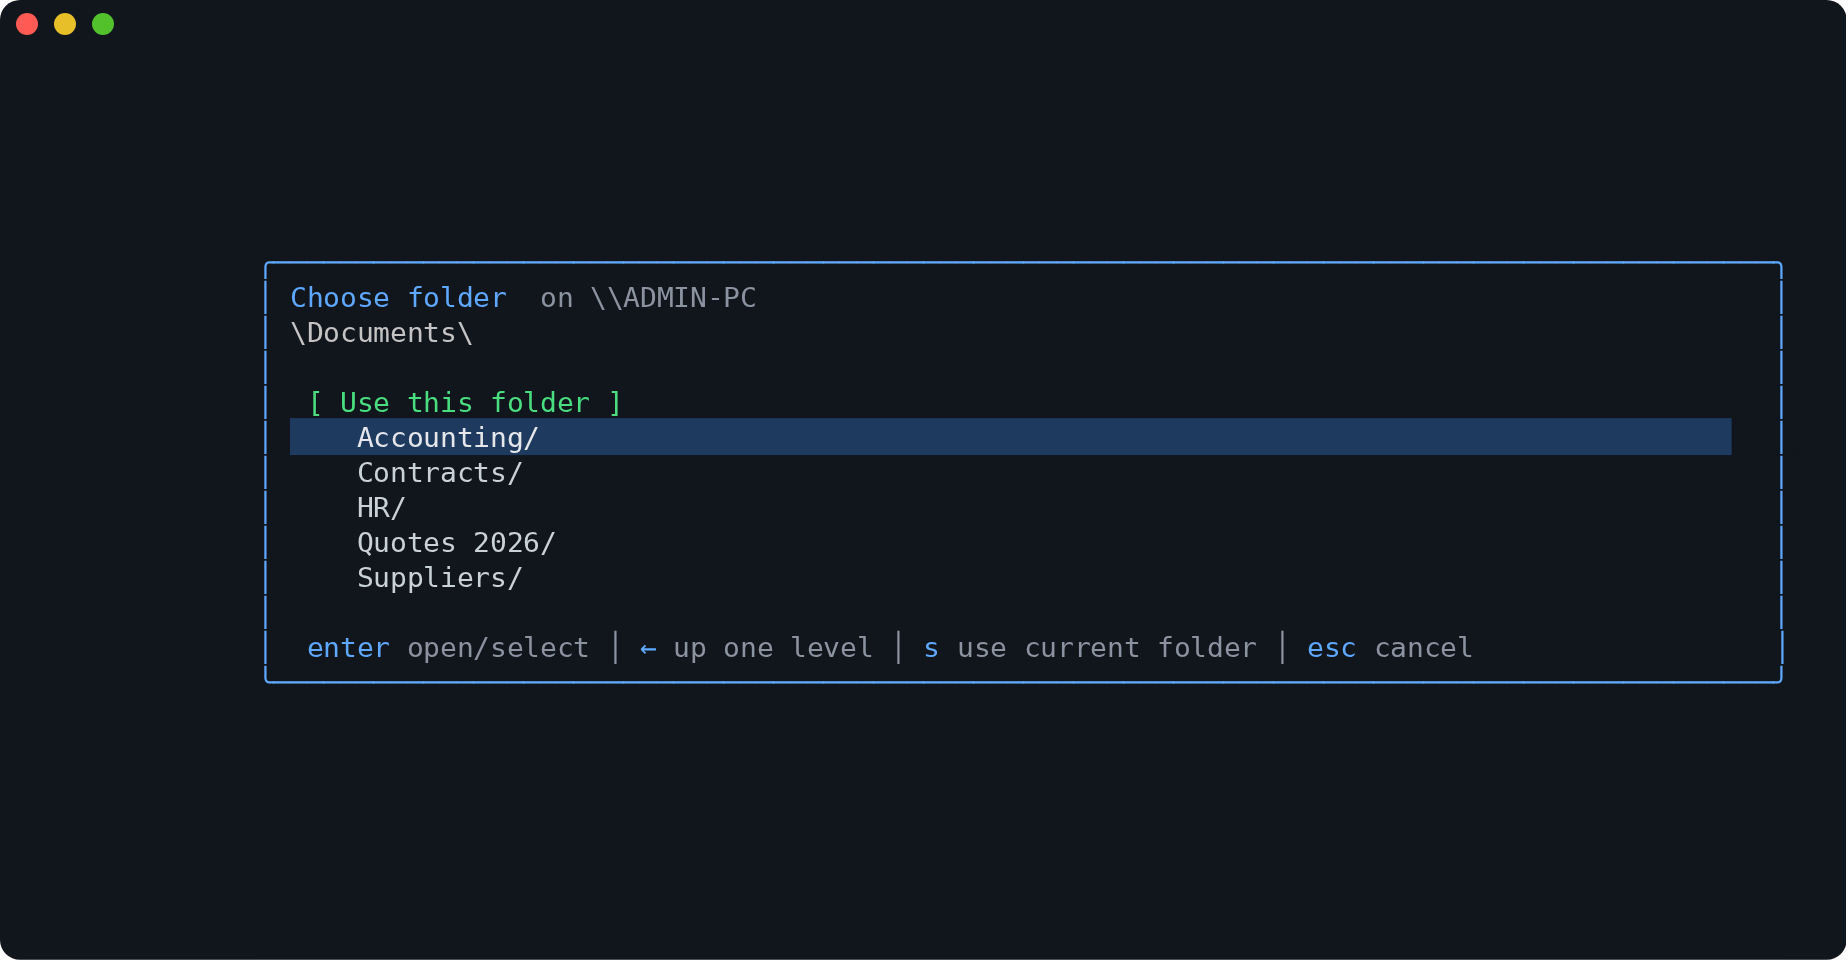
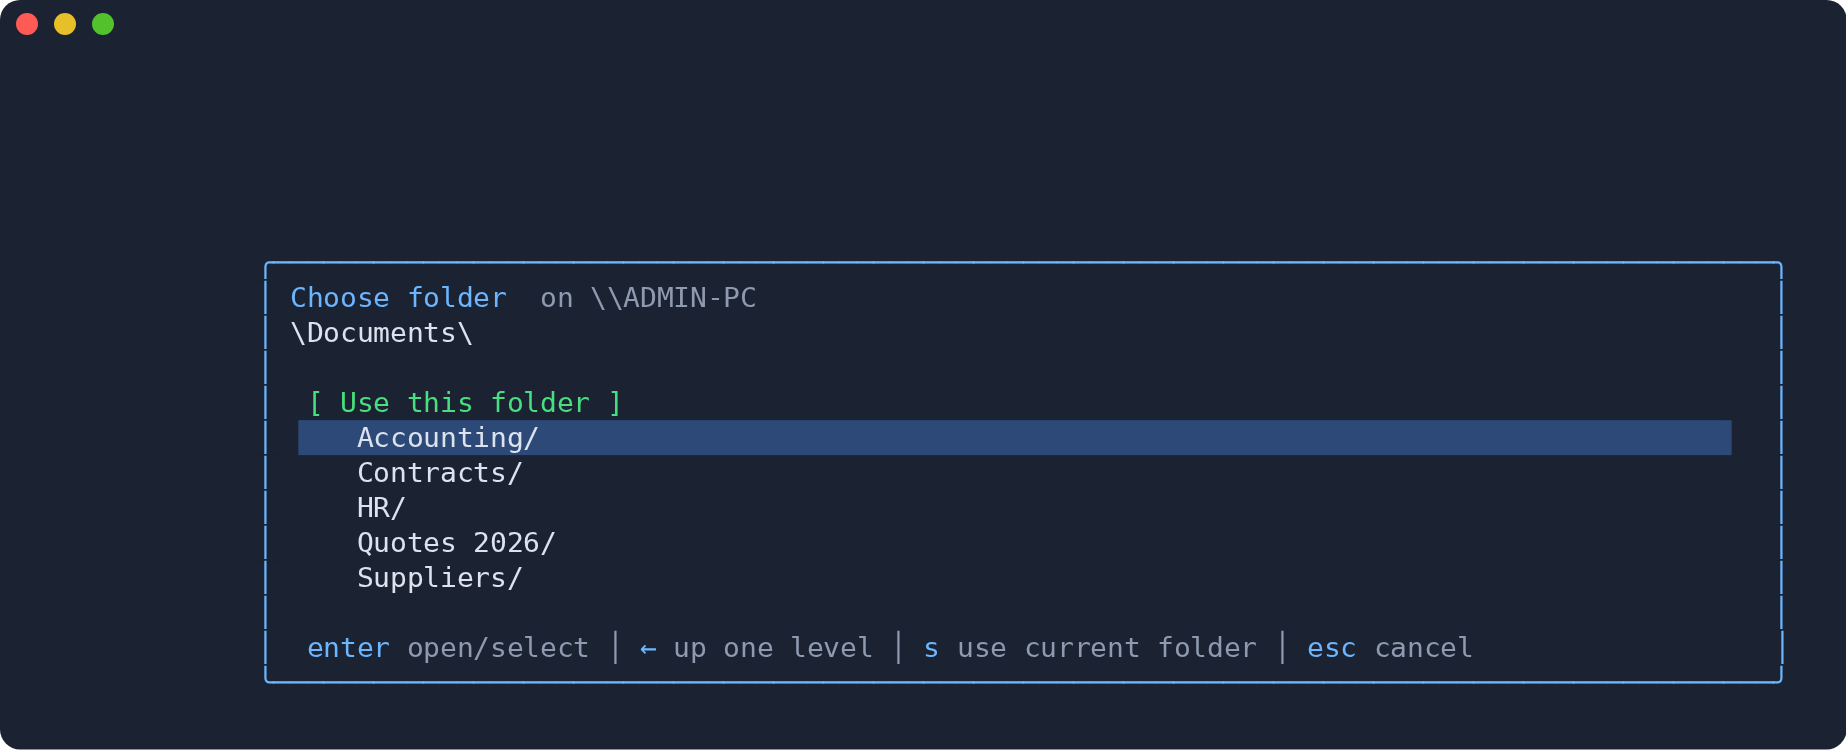
TUI: dark blue-grey theme
- the TUI paints its own dark blue-grey background (#1B2333) on the whole
  screen, re-applying it after every colour reset and filling each line,
  so it looks the same on any terminal background
- palette tuned for the new background (text, muted, borders, selection,
  accent)
- VEGASYNCOR_THEME=terminal keeps the terminal's own background
- terminals without colour support are left untouched
- README: theme section and screenshots with the new background

diff --git a/internal/tui/theme.go b/internal/tui/theme.go
@@ -1,0 +1,99 @@
+package tui
+
+import (
+	"os"
+	"regexp"
+	"strings"
+
+	"github.com/charmbracelet/lipgloss"
+)
+
+// The default theme paints its own dark blue-grey background on the whole screen,
+// so the TUI looks the same whatever the terminal background is.
+// VEGASYNCOR_THEME=terminal keeps the terminal's own background and colours.
+
+var (
+	themeBg   = lipgloss.Color("#1B2333") // dark blue-grey
+	themeText = lipgloss.Color("#DCE3EE")
+)
+
+// themeOn reports whether the painted background is in use.
+var themeOn bool
+
+// themeBase is the escape sequence selecting the theme background and text colour
+// for the current terminal colour profile ("" if the terminal has no colours).
+var themeBase string
+
+// setupTheme chooses the theme at startup.
+func setupTheme() {
+	if strings.EqualFold(os.Getenv("VEGASYNCOR_THEME"), "terminal") {
+		return
+	}
+	// render a sample with the theme colours and keep only the opening sequence:
+	// it follows the colour profile detected by lipgloss (true colour, 256, 16)
+	sample := lipgloss.NewStyle().Background(themeBg).Foreground(themeText).Render("x")
+	i := strings.Index(sample, "x")
+	if i <= 0 {
+		return // no colour support: nothing to paint
+	}
+	themeBase = sample[:i]
+	themeOn = true
+	// our background is dark: use the dark variant of the adaptive colours
+	lipgloss.SetHasDarkBackground(true)
+	cFaint = lipgloss.AdaptiveColor{Light: "#3D4A63", Dark: "#3D4A63"}
+	cMuted = lipgloss.AdaptiveColor{Light: "#8E9AB0", Dark: "#8E9AB0"}
+	cSelBg = lipgloss.AdaptiveColor{Light: "#2D4A78", Dark: "#2D4A78"}
+	cText = lipgloss.AdaptiveColor{Light: "#DCE3EE", Dark: "#DCE3EE"}
+	cAccent = lipgloss.AdaptiveColor{Light: "#6CB6FF", Dark: "#6CB6FF"}
+	rebuildStyles()
+}
+
+var sgrRe = regexp.MustCompile(`\x1b\[([0-9;]*)m`)
+
+// paintBackground applies the theme background to a rendered screen: after every
+// sequence that resets the colours it selects the theme colours again, and it
+// fills every line (and the missing lines) up to the screen size.
+func paintBackground(screen string, w, h int) string {
+	if !themeOn || w <= 0 {
+		return screen
+	}
+	lines := strings.Split(screen, "\n")
+	for len(lines) < h {
+		lines = append(lines, "")
+	}
+	for i, l := range lines {
+		l = sgrRe.ReplaceAllStringFunc(l, func(seq string) string {
+			if resetsColours(sgrRe.FindStringSubmatch(seq)[1]) {
+				return seq + themeBase
+			}
+			return seq
+		})
+		if fill := w - lipgloss.Width(l); fill > 0 {
+			l += strings.Repeat(" ", fill)
+		}
+		lines[i] = themeBase + l + "\x1b[0m"
+	}
+	return strings.Join(lines, "\n")
+}
+
+// resetsColours reports whether an SGR parameter list resets the background or the
+// foreground ("", 0, 39, 49), skipping the arguments of 38/48 extended colours.
+func resetsColours(params string) bool {
+	if params == "" {
+		return true
+	}
+	p := strings.Split(params, ";")
+	for i := 0; i < len(p); i++ {
+		switch p[i] {
+		case "38", "48":
+			if i+1 < len(p) && p[i+1] == "2" {
+				i += 4
+			} else {
+				i += 2
+			}
+		case "0", "", "39", "49":
+			return true
+		}
+	}
+	return false
+}

diff --git a/internal/tui/styles.go b/internal/tui/styles.go
@@ -20,27 +20,36 @@ var (
 	cSelBg   = lipgloss.AdaptiveColor{Light: "#DBEAFE", Dark: "#1E3A5F"}
 	cText    = lipgloss.AdaptiveColor{Light: "#111827", Dark: "#E5E7EB"}
 	cBadgeBg = lipgloss.AdaptiveColor{Light: "#FEF3C7", Dark: "#4A3A10"}
-
-	sTitle    = lipgloss.NewStyle().Bold(true).Foreground(cAccent)
-	sMuted    = lipgloss.NewStyle().Foreground(cMuted)
-	sBold     = lipgloss.NewStyle().Bold(true)
-	sOK       = lipgloss.NewStyle().Foreground(cOK)
-	sWarn     = lipgloss.NewStyle().Foreground(cWarn)
-	sErr      = lipgloss.NewStyle().Foreground(cErr)
-	sRun      = lipgloss.NewStyle().Foreground(cRun)
-	sSel      = lipgloss.NewStyle().Background(cSelBg).Foreground(cText)
-	sSection  = lipgloss.NewStyle().Bold(true).Foreground(cAccent)
-	sKey      = lipgloss.NewStyle().Bold(true).Foreground(cAccent)
-	sROBadge  = lipgloss.NewStyle().Foreground(cWarn).Background(cBadgeBg).Bold(true).Padding(0, 1)
-	sTabOn    = lipgloss.NewStyle().Bold(true).Foreground(cText).Background(cSelBg).Padding(0, 1)
-	sTabOff   = lipgloss.NewStyle().Foreground(cMuted).Padding(0, 1)
-	sBox      = lipgloss.NewStyle().Border(lipgloss.RoundedBorder()).BorderForeground(cFaint).Padding(0, 1)
-	sFocusBox = lipgloss.NewStyle().Border(lipgloss.RoundedBorder()).BorderForeground(cAccent).Padding(0, 1)
-	sRule     = lipgloss.NewStyle().Foreground(cFaint)
-	sClock    = lipgloss.NewStyle().Bold(true).Foreground(cText)
-	sSep      = lipgloss.NewStyle().Foreground(cMuted)
-	sCheck    = lipgloss.NewStyle().Bold(true).Foreground(cOK)
 )
+
+// styles, built from the palette by rebuildStyles (again after the theme changes it)
+var (
+	sTitle, sMuted, sBold, sOK, sWarn, sErr, sRun, sSel, sSection, sKey, sROBadge, sTabOn, sTabOff, sBox, sFocusBox, sRule, sClock, sSep, sCheck lipgloss.Style
+)
+
+func init() { rebuildStyles() }
+
+func rebuildStyles() {
+	sTitle = lipgloss.NewStyle().Bold(true).Foreground(cAccent)
+	sMuted = lipgloss.NewStyle().Foreground(cMuted)
+	sBold = lipgloss.NewStyle().Bold(true)
+	sOK = lipgloss.NewStyle().Foreground(cOK)
+	sWarn = lipgloss.NewStyle().Foreground(cWarn)
+	sErr = lipgloss.NewStyle().Foreground(cErr)
+	sRun = lipgloss.NewStyle().Foreground(cRun)
+	sSel = lipgloss.NewStyle().Background(cSelBg).Foreground(cText)
+	sSection = lipgloss.NewStyle().Bold(true).Foreground(cAccent)
+	sKey = lipgloss.NewStyle().Bold(true).Foreground(cAccent)
+	sROBadge = lipgloss.NewStyle().Foreground(cWarn).Background(cBadgeBg).Bold(true).Padding(0, 1)
+	sTabOn = lipgloss.NewStyle().Bold(true).Foreground(cText).Background(cSelBg).Padding(0, 1)
+	sTabOff = lipgloss.NewStyle().Foreground(cMuted).Padding(0, 1)
+	sBox = lipgloss.NewStyle().Border(lipgloss.RoundedBorder()).BorderForeground(cFaint).Padding(0, 1)
+	sFocusBox = lipgloss.NewStyle().Border(lipgloss.RoundedBorder()).BorderForeground(cAccent).Padding(0, 1)
+	sRule = lipgloss.NewStyle().Foreground(cFaint)
+	sClock = lipgloss.NewStyle().Bold(true).Foreground(cText)
+	sSep = lipgloss.NewStyle().Foreground(cMuted)
+	sCheck = lipgloss.NewStyle().Bold(true).Foreground(cOK)
+}
 
 func trunc(s string, w int) string {
 	if w <= 0 {

diff --git a/internal/tui/theme_test.go b/internal/tui/theme_test.go
@@ -1,0 +1,41 @@
+package tui
+
+import (
+	"strings"
+	"testing"
+
+	"github.com/charmbracelet/lipgloss"
+)
+
+func TestResetsColours(t *testing.T) {
+	cases := map[string]bool{
+		"": true, "0": true, "39": true, "49": true, "1;0": true,
+		"1":               false,
+		"38;2;0;0;0":      false, // the zeros are colour components, not resets
+		"48;5;0":          false,
+		"38;2;10;20;30;0": true,
+	}
+	for in, want := range cases {
+		if got := resetsColours(in); got != want {
+			t.Errorf("resetsColours(%q) = %v, want %v", in, got, want)
+		}
+	}
+}
+
+func TestPaintBackground(t *testing.T) {
+	themeOn, themeBase = true, "\x1b[48;2;27;35;51m"
+	defer func() { themeOn, themeBase = false, "" }()
+	out := paintBackground("ab\x1b[1mc\x1b[0md", 10, 3)
+	lines := strings.Split(out, "\n")
+	if len(lines) != 3 {
+		t.Fatalf("lines = %d, want 3", len(lines))
+	}
+	for i, l := range lines {
+		if !strings.HasPrefix(l, themeBase) || lipgloss.Width(l) != 10 {
+			t.Errorf("line %d not painted to full width: %q", i, l)
+		}
+	}
+	if !strings.Contains(lines[0], "\x1b[0m"+themeBase+"d") {
+		t.Errorf("background not restored after reset: %q", lines[0])
+	}
+}

diff --git a/internal/tui/view.go b/internal/tui/view.go
@@ -16,7 +16,7 @@ import (
 // View draws the screen; zone.Scan records the positions of the clickable parts.
 func (m *Model) View() string {
 	helpKeys = helpKeys[:0]
-	return zone.Scan(m.render())
+	return paintBackground(zone.Scan(m.render()), m.w, m.h)
 }
 
 func (m *Model) render() string {

diff --git a/internal/tui/model.go b/internal/tui/model.go
@@ -119,6 +119,7 @@ func Run(c *api.Client, version string, mouse bool) error {
 	zone.NewGlobal()
 	defer zone.Close()
 	zone.SetEnabled(mouse)
+	setupTheme()
 	m := &Model{client: c, version: version}
 	opts := []tea.ProgramOption{tea.WithAltScreen()}
 	if mouse {

diff --git a/README.md b/README.md
@@ -135,6 +135,11 @@ A click selects a row, a double click opens it.
 With the mouse enabled, hold **Shift** while dragging to select and copy text in the terminal.
 To use the TUI without the mouse: `vegasyncor --no-mouse` (or `VEGASYNCOR_NO_MOUSE=1`).
 
+### Theme
+
+The TUI paints its own dark blue-grey background, so it looks the same whatever the terminal colours
+are. To keep the terminal's own background instead: `VEGASYNCOR_THEME=terminal vegasyncor`.
+
 ### Main keys
 
 | Tab | Keys |
